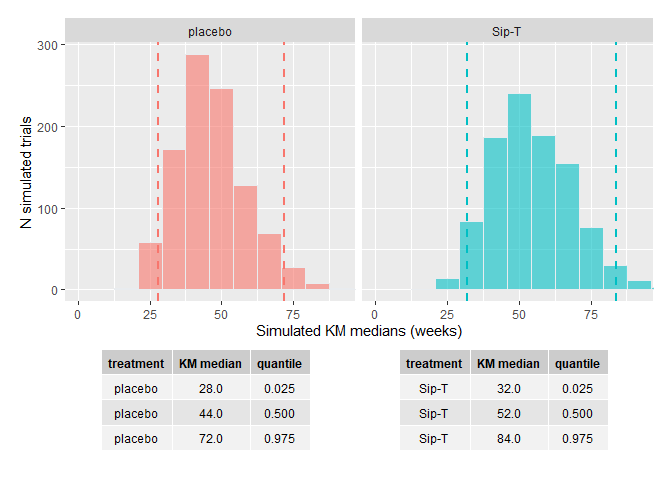
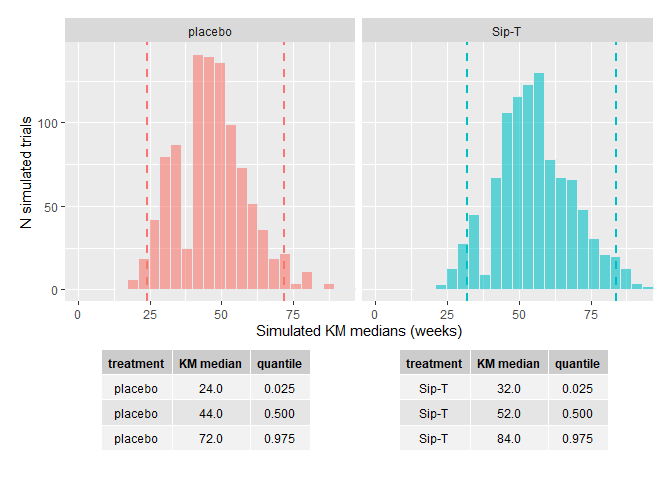
minor updates

diff --git a/README.md b/README.md
@@ -32,35 +32,39 @@ devtools::install_github("reevesj53/survTrial")
 
 ## Example
 
-``` r
-library(survTrial)
-```
-
 The code below shows examples of output from the simulations.
 
-First, generate an example enrollment schedule, with ramp-up period of 5
-months, 10 subjects per month thereafter leading to a total of 60
-subjects with 1:1 randomization.
+First, generate an example enrollment schedule in `enrol`, with ramp-up
+period of 5 months, 10 subjects per month thereafter leading to a total
+of 60 subjects with 1:1 randomization.
 
-The visit schedule for tumor assessments is every 4 weeks. Median PFS
-for the two treatment groups (Sip-T and Placebo) are 12 and 10 months
-respectively.
+The visit schedule for tumor assessments is every 4 weeks (in
+`schedule`). Median PFS for the two treatment groups (Sip-T and Placebo)
+are 12 and 10 months respectively.
 
 Data cut-off will occur at the 40th event.
 
 ``` r
+library(survTrial)
+
 enrol <- c(seq(2,10,length.out=5),rep(10,times=3))
 schedule <- seq(0,100,4)
 rxrate <- c(12,10)
 nevent <- 40
 ```
 
-Then run the simulation:
+The proportion of events that are deaths is set at 10% and censoring
+rate is 10%. We accept the default method of moving progression events
+forward to the next scheduled visit. Then run the simulation:
 
 ``` r
 sim <- trial_sim(schedule, enrol, rxrate, nevent, adjust=TRUE, trt=c("Sip-T","placebo"),death.prop=0.1,
 censor.prop=0.1,n.rep=1000)
 ```
+
+The function `sim.km()` extracts both the simulated values for KM median
+by iteration and treatment group, and associated summary statistics by
+treatment group. This information is shown below.
 
 ``` r
 sim.km <- calc_km(sim)
@@ -69,23 +73,23 @@ sim.km
 #> # A tibble: 2,000 x 3
 #>      rep rx      median
 #>    <int> <chr>    <dbl>
-#>  1     1 placebo   44  
-#>  2     1 Sip-T     40.0
-#>  3     2 placebo   48  
-#>  4     2 Sip-T     44  
-#>  5     3 placebo   40  
-#>  6     3 Sip-T     78  
-#>  7     4 placebo   60  
-#>  8     4 Sip-T     57.0
-#>  9     5 placebo   48  
-#> 10     5 Sip-T     46.4
+#>  1     1 placebo     56
+#>  2     1 Sip-T       68
+#>  3     2 placebo     44
+#>  4     2 Sip-T       52
+#>  5     3 placebo     40
+#>  6     3 Sip-T       56
+#>  7     4 placebo     44
+#>  8     4 Sip-T       48
+#>  9     5 placebo     24
+#> 10     5 Sip-T       56
 #> # ... with 1,990 more rows
 #> 
 #> $median.quantile
 #> # A tibble: 6 x 4
 #>   rx      description KM_median quantile
 #>   <chr>   <chr>           <dbl>    <dbl>
-#> 1 placebo sim_low            28   0.0250
+#> 1 placebo sim_low            24   0.0250
 #> 2 placebo sim_median         44   0.5   
 #> 3 placebo sim_high           72   0.975 
 #> 4 Sip-T   sim_low            32   0.0250
@@ -96,17 +100,38 @@ sim.km
 #> [1] "trialsim.km"
 ```
 
-Next plot results
+A histogram plot of the simulated values for KM median can be obtained
+by calling `plot_sim()` for `sim.km` object.
 
 ``` r
 plot_sim(sim.km)
 ```
 
-<img src="man/figures/README-plot1-1.png" width="100%" /> Or add
-confidence bounds and summary table to plot.
+<img src="man/figures/README-plot1-1.png" width="100%" /> Additional
+options are available:
+
+-   add confidence bounds as specified in `calc_km()` (defaults to 95%)
+    to the plot.
+-   add a table of summary statistics by treatment group.
 
 ``` r
 plot_sim(sim.km, ci=TRUE, summary=TRUE)
 ```
 
-<img src="man/figures/README-plot2-1.png" width="100%" />
+<img src="man/figures/README-plot2-1.png" width="100%" /> Simulation
+results are also available for Hazard Ratio for each simulated trial by
+running the code below.
+
+``` r
+sim.hr <- calc_hr(sim)
+```
+
+And a similar graph of the simulation results for Hazard Ratio with
+associated summary table is obtained from the generic plotting function
+`plot_sim()`, as shown in the following:
+
+``` r
+plot_sim(sim.hr, ci=TRUE, summary=TRUE)
+```
+
+<img src="man/figures/README-plot3-1.png" width="100%" />
